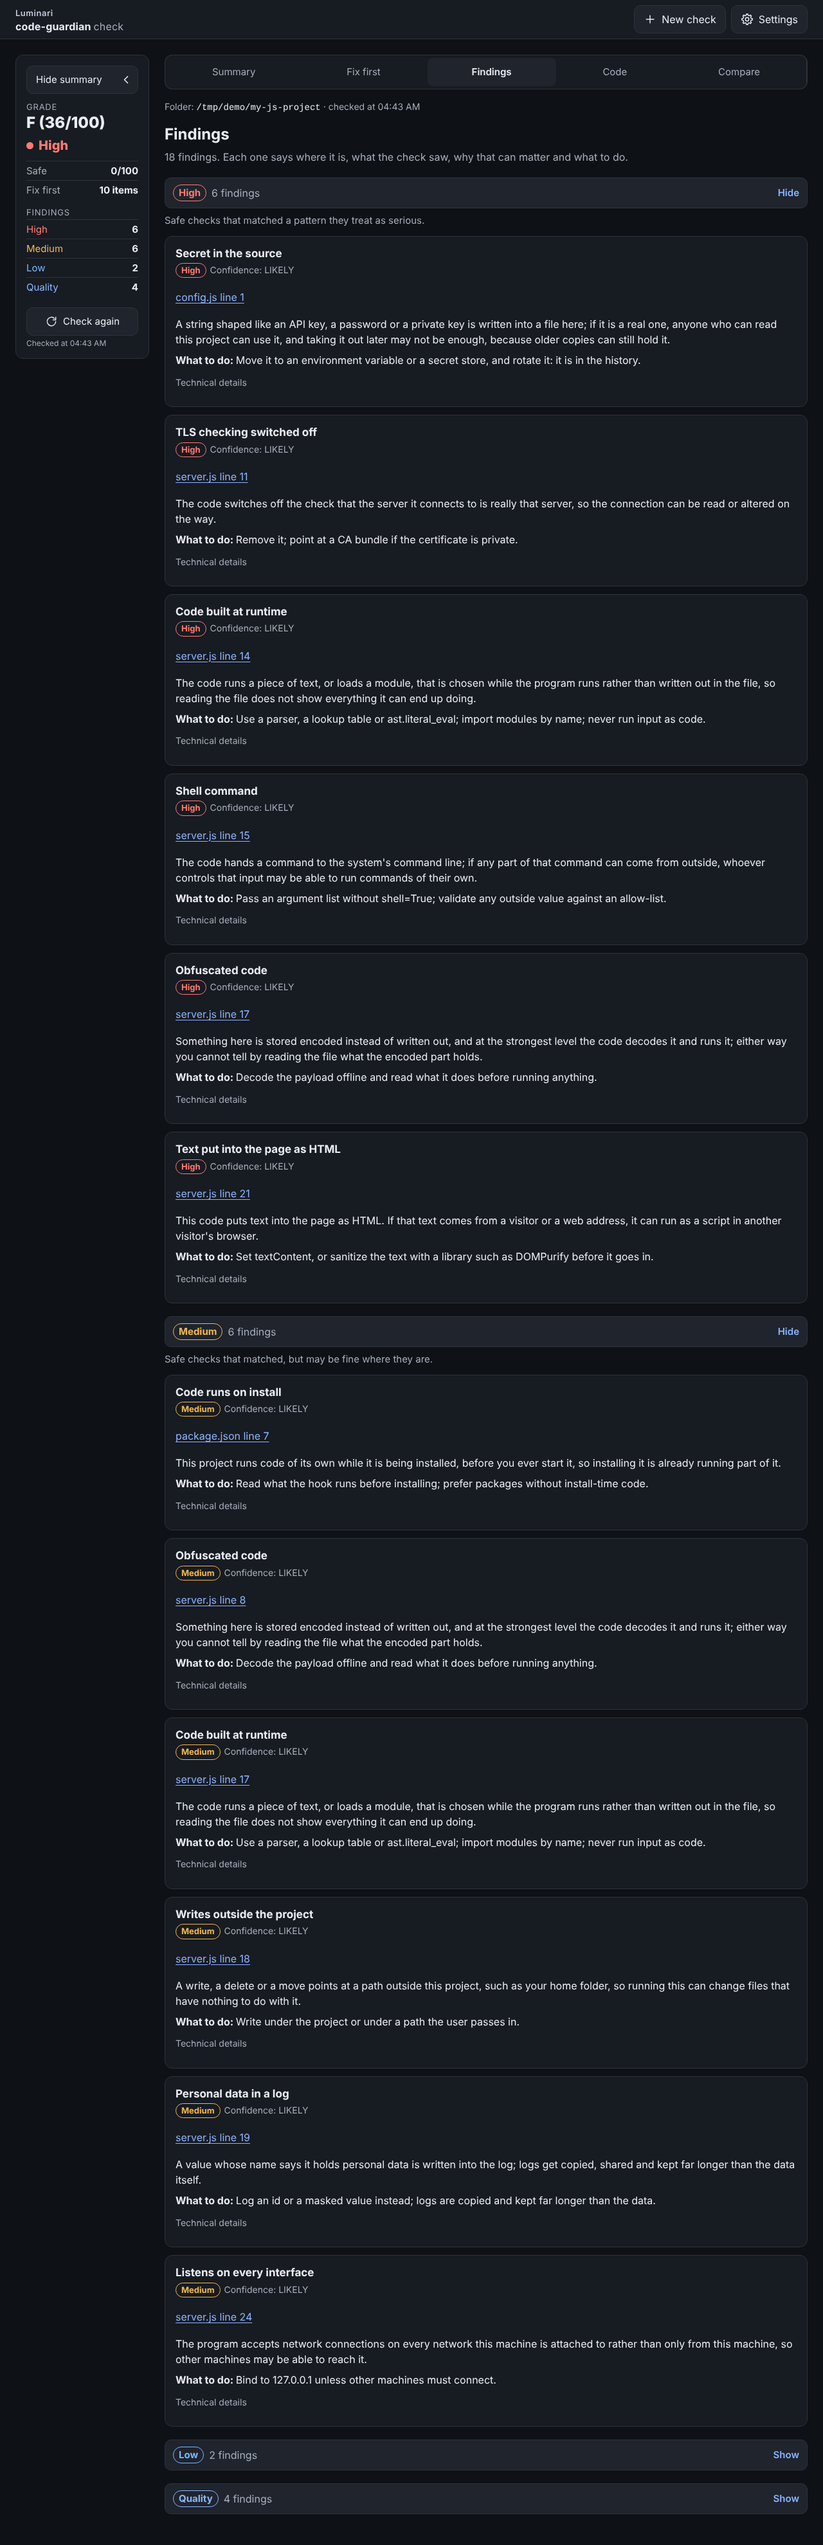
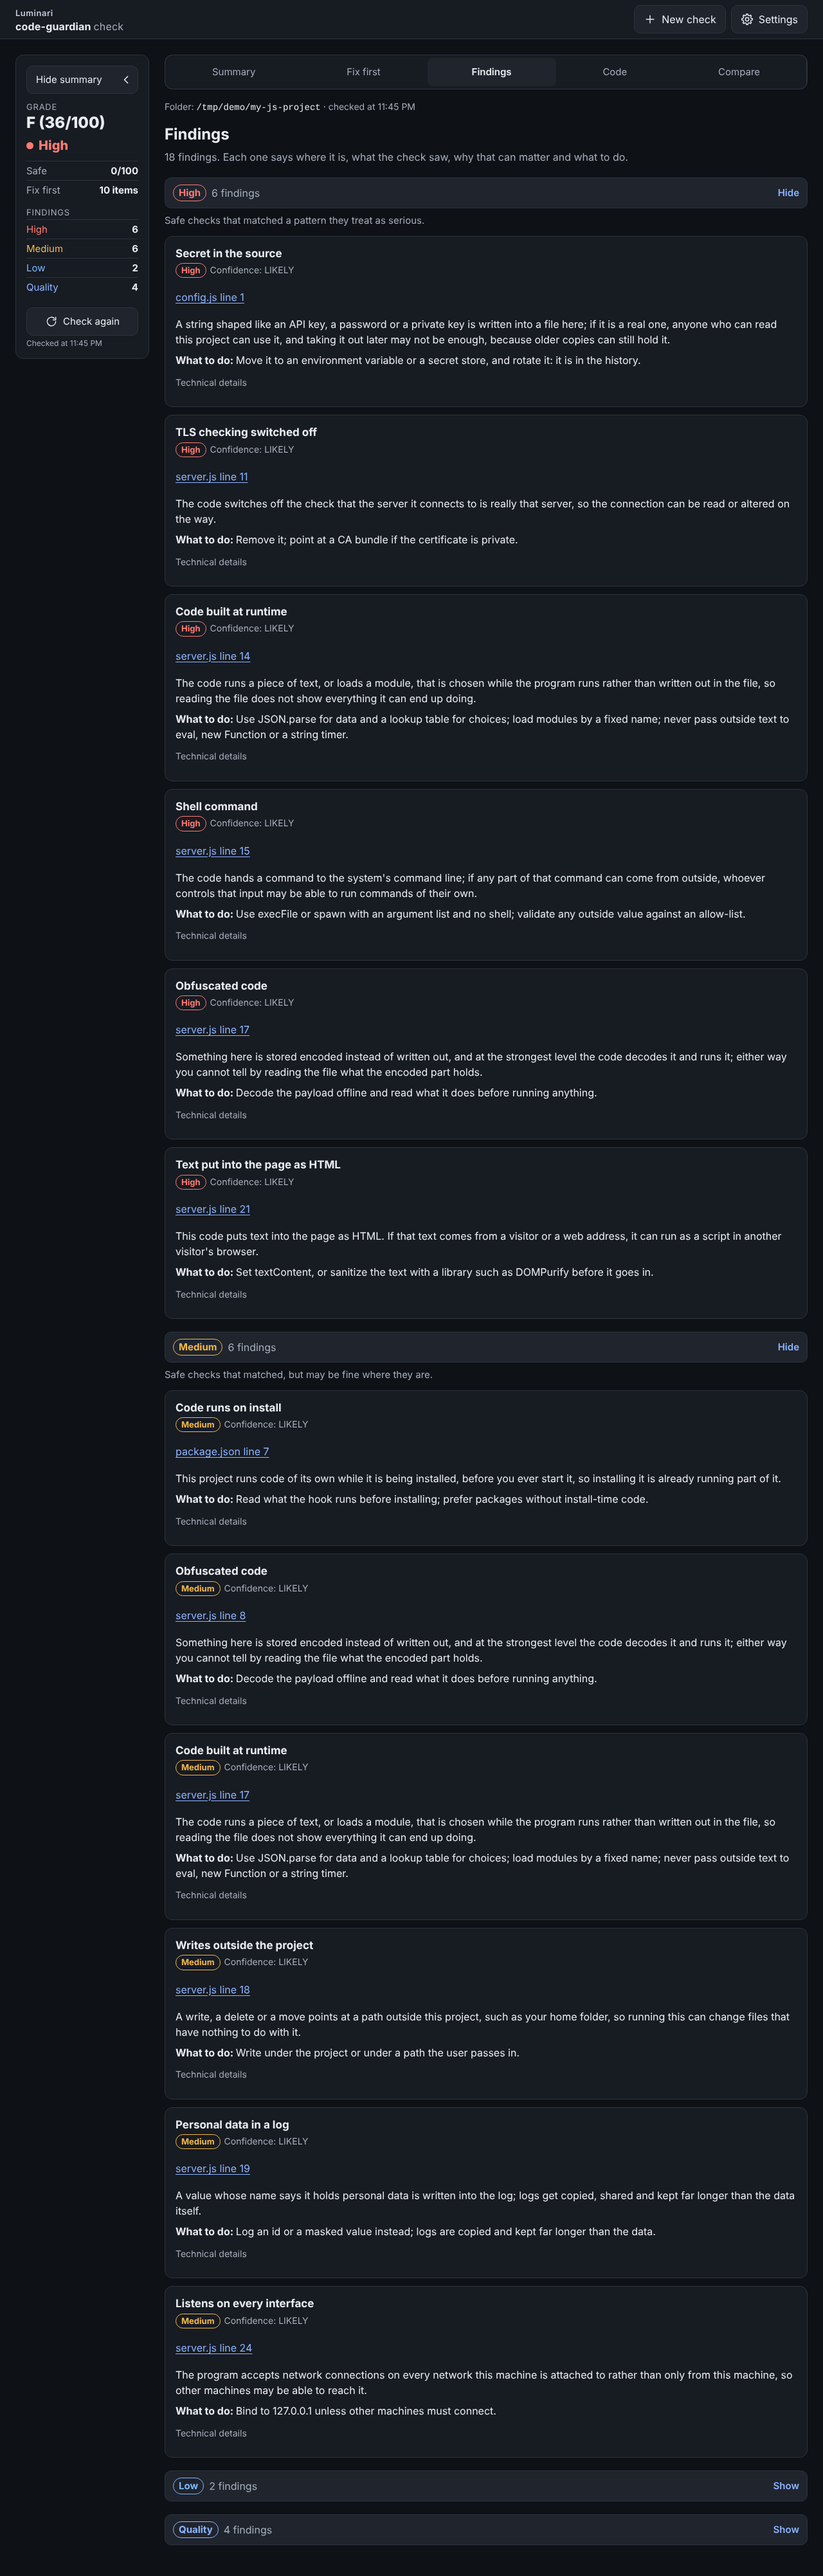
P81 S5b: plain lists under What was checked, and fix advice in the file's language
What was checked: the JavaScript / TypeScript and generated entries gain looked_at and
not_looked_at lists; the page shows them as two bullet lists, the depth chip reads
line by line, and a line under the title says the scores come from what is listed.
Advice: catalogue.FIX_JS, js_only and fix_for; finding_card and verify.plan use them.
The four js_risky screenshots are made again.

Claude-Session: https://claude.ai/code/session_01RfdP2ss3SeXPqJYzHjjLsa

diff --git a/code_guardian/ui/app.js b/code_guardian/ui/app.js
@@ -976,8 +976,15 @@
       if (c.files) head.appendChild(el("span", "chip depth-chip", depthWord(c.depth)));
       li.appendChild(head);
       // The sentence starts with the label, which the head line already shows.
-      var prefix = c.label + ": ";
-      li.appendChild(el("span", "checked-text", c.text.indexOf(prefix) === 0 ? c.text.slice(prefix.length) : c.text));
+      if (c.looked_at && c.looked_at.length) {
+        li.appendChild(el("span", "checked-sub", "Looked at"));
+        li.appendChild(checkedList(c.looked_at));
+        li.appendChild(el("span", "checked-sub", "Not looked at"));
+        li.appendChild(checkedList(c.not_looked_at || []));
+      } else {
+        var prefix = c.label + ": ";
+        li.appendChild(el("span", "checked-text", c.text.indexOf(prefix) === 0 ? c.text.slice(prefix.length) : c.text));
+      }
       ul.appendChild(li);
     });
   }
@@ -1016,10 +1023,19 @@
     $("rail-quality").textContent = String(counts.Quality);
   }
 
+  // A bullet list under "Looked at" / "Not looked at": the wording comes from the server in lower case.
+  function checkedList(items) {
+    var ul = el("ul", "checked-list");
+    items.forEach(function (text) {
+      ul.appendChild(el("li", null, text.charAt(0).toUpperCase() + text.slice(1)));
+    });
+    return ul;
+  }
+
   // The chip beside each "What was checked" label: how deep the scan went into that kind of file.
   function depthWord(depth) {
     if (depth === "full") return "in depth";
-    if (depth === "tokens") return "token level";
+    if (depth === "tokens") return "line by line";
     if (depth === "secrets+manifests") return "keys and install settings only";
     if (depth === "secrets only") return "keys only";
     if (depth === "not read") return "not read";

diff --git a/code_guardian/ui/index.html b/code_guardian/ui/index.html
@@ -179,6 +179,7 @@
   <p class="test-values" id="test-values" hidden><span id="test-values-text"></span> <button type="button" class="link" id="test-values-show">Show them</button></p>
   <ul class="sentences card" id="sentences"></ul>
   <h2 class="section-title">What was checked</h2>
+  <p class="hint">The Safe and Works scores above come only from what is listed here as looked at.</p>
   <ul class="checked card" id="checked"></ul>
   <details class="legend card">
     <summary>What the labels mean</summary>
@@ -189,7 +190,7 @@
       <dt>No known risks found</dt><dd>No Safe check reported anything in the files it could read. That is not the same as “all clear”: a static check only sees the patterns it knows, so this label is grey, not green.</dd>
       <dt>Could not check</dt><dd>The scan could not judge this folder, so there is no grade.</dd>
       <dt>in depth</dt><dd>Next to a kind of file under “What was checked”: every Safe and Works check ran on it, and the code was read the way a program reads it.</dd>
-      <dt>token level</dt><dd>Next to a kind of file under “What was checked”: the code was read piece by piece, so it can see what is called, loaded and sent, but not how values move between functions. The line says what was not checked.</dd>
+      <dt>line by line</dt><dd>Next to a kind of file under “What was checked”: each line was read on its own, so it sees what the code does there, but not how information travels from one part of the code to another. The two lists say what was and was not looked at.</dd>
       <dt>partial check</dt><dd>Some of the folder was not fully checked; the first line on this screen says which part.</dd>
     </dl>
   </details>

diff --git a/code_guardian/ui/app.css b/code_guardian/ui/app.css
@@ -465,6 +465,9 @@ legend { padding: 0; margin-bottom: 0.5rem; font-weight: 700; }
 .checked .checked-head { display: flex; flex-wrap: wrap; align-items: center; gap: 0.5rem; margin-bottom: 0.25rem; }
 .checked .checked-label { font-weight: 700; }
 .checked .checked-text { display: block; }
+.checked .checked-sub { display: block; font-weight: 600; margin-top: 0.5rem; }
+.checked .checked-list { margin: 0.25rem 0 0; padding-left: 1.25rem; }
+.checked .checked-list li { list-style: disc; border-top: 0; padding: 0.125rem 0; }
 .chip.depth-chip { color: var(--muted); font-weight: 400; }
 
 .section-title { margin-top: 1.5rem; }

diff --git a/code_guardian/plain.py b/code_guardian/plain.py
@@ -13,7 +13,7 @@ Public contract:
     LABELS, COULD_NOT_CHECK, VERDICT_PHRASES, LANGUAGES, WHY
     harm(report) -> {"level", "partial", "why", "counts": {"FAIL", "WARN", "INFO"}}
     score_sentence(dimension, report) -> str        # dimension: "safe" | "works" | "complete" | "overall"
-    checked_lines(report) -> [{"label", "files", "depth", "text"}]
+    checked_lines(report) -> [{"label", "files", "depth", "text"}]   # JavaScript entries also "looked_at", "not_looked_at"
     finding_card(finding, report=None) -> {"where", "what", "why", "how", "level", "confidence", "code",
                                            "fingerprint"}
     fix_first(report, top=10) -> [{"rank", "title", "level", "count", "gain", "grade_after", "first_location",
@@ -402,15 +402,30 @@ OTHER_TEXT = ("read for key shapes, and where the file is a manifest for install
               "was not analysed")
 # Measured, not quoted: a skipped file is never opened. walk.py puts a file in files.skipped when it is binary, a
 # symlink, over the size limit or unreadable, and report.scan() secret-scans only inv["other"], never inv["skipped"].
-# JavaScript / TypeScript (P81 C6): read at token level, so the line says what that reaches and what it does not.
-# "tokens" is the depth the page shows as "token level". The generated line says what ran on minified or generated
+# JavaScript / TypeScript (P81 C6, S5b): read line by line, so two plain lists say what that reaches and what it does not.
+# "tokens" is the depth the page shows as "line by line". The generated line says what ran on minified or generated
 # files (report.JS_GENERATED_CHECKS: key shapes, obfuscation, exec.dynamic) and nothing more.
 JS_LABEL = "JavaScript / TypeScript"
-JS_TEXT = ("analysed at token level: what the code calls, what it imports and loads, where it sends data, how it "
-           "starts, and the text itself; not checked: how values move between functions, types, unused code")
+JS_LOOKED_AT = [
+    "what the code tells the computer to do, such as running a command, deleting a file or putting text on a web page",
+    "which other code and packages it pulls in",
+    "where it sends information, such as websites, servers and logs",
+    "how it starts: what runs by itself when it is installed, and whether the file it starts from is there",
+    "passwords, keys and hidden or scrambled text written into the files",
+]
+JS_NOT_LOOKED_AT = [
+    "how information travels from one part of the code to another, such as from a form a visitor fills in to a line "
+    "several steps later",
+    "whether each piece of data is the kind the code expects, such as a number where a number belongs",
+    "code that is written but never used",
+]
+JS_TEXT = "read line by line. Looked at: %s. Not looked at: %s" % ("; ".join(JS_LOOKED_AT), "; ".join(JS_NOT_LOOKED_AT))
 JS_GENERATED_LABEL = "JavaScript (minified or generated)"
-JS_GENERATED_TEXT = ("read for key shapes and for code that runs text or decodes hidden text; nothing else was "
-                     "checked")
+JS_GENERATED_LOOKED_AT = ["passwords and keys written into the files",
+                          "code that runs text as code, or unscrambles hidden text"]
+JS_GENERATED_NOT_LOOKED_AT = ["everything else"]
+JS_GENERATED_TEXT = "read only for two things. Looked at: %s. Not looked at: %s" % (
+    "; ".join(JS_GENERATED_LOOKED_AT), "; ".join(JS_GENERATED_NOT_LOOKED_AT))
 SKIPPED_TEXT = "not read at all, because they are binary, a symlink, too large or unreadable; the notes name each"
 # An unparsed file is read and secret-scanned (report.scan() scans the text before building the parse tree) and
 # only then fails to parse, so it is "secrets only", not "not read".
@@ -441,11 +456,13 @@ def checked_lines(rep):
                     "text": "Python: %s \u2014 %s." % (_plural(python, "file"), _python_text(rep, leads, python))})
     if js_files:
         out.append({"label": JS_LABEL, "files": js_files, "depth": "tokens",
-                    "text": "%s: %s \u2014 %s." % (JS_LABEL, _plural(js_files, "file"), JS_TEXT)})
+                    "text": "%s: %s \u2014 %s." % (JS_LABEL, _plural(js_files, "file"), JS_TEXT),
+                    "looked_at": list(JS_LOOKED_AT), "not_looked_at": list(JS_NOT_LOOKED_AT)})
     if js_generated:
         out.append({"label": JS_GENERATED_LABEL, "files": js_generated, "depth": "tokens",
                     "text": "%s: %s \u2014 %s." % (JS_GENERATED_LABEL, _plural(js_generated, "file"),
-                                                   JS_GENERATED_TEXT)})
+                                                   JS_GENERATED_TEXT),
+                    "looked_at": list(JS_GENERATED_LOOKED_AT), "not_looked_at": list(JS_GENERATED_NOT_LOOKED_AT)})
     for ext, count in sorted((cov.get("other_source") or {}).items()):
         label = LANGUAGES.get(ext, ext)
         out.append({"label": label, "files": int(count), "depth": "secrets+manifests",
@@ -488,7 +505,7 @@ def finding_card(finding, rep=None):
         "where": finding.get("node"),
         "what": entry["title"] if entry else code,
         "why": WHY.get(code) or finding.get("summary") or "",
-        "how": finding.get("fix") or (entry or {}).get("fix"),
+        "how": finding.get("fix") or catalogue.fix_for(code, [finding.get("node")], catalogue.js_only(rep)),
         "level": finding.get("level"),
         "confidence": finding.get("confidence"),  # a labelled field, never a word inside a sentence
         "code": code,

diff --git a/code_guardian/catalogue.py b/code_guardian/catalogue.py
@@ -4,8 +4,12 @@ SARIF rules and the Markdown output read it; tests/test_readme_sync.py checks th
 
 Public contract:
     CATALOGUE = {code: {"title", "means", "fix", "false_positives"}}
+    FIX_JS = {code: text}                   # the advice for a finding in a JavaScript / TypeScript file
+    js_only(rep) -> bool                    # JavaScript / TypeScript analysed and no Python file
+    fix_for(code, locations, js_only_repo=False) -> str | None
 """
 
+import re
 import sys
 
 from .finding import summarize
@@ -242,6 +246,57 @@ CATALOGUE = {
 }
 
 
+# The codes whose CATALOGUE fix is Python-only advice. Every other code reads the same in either language.
+FIX_JS = {
+    "exec.dynamic": "Use JSON.parse for data and a lookup table for choices; load modules by a fixed name; never pass "
+                    "outside text to eval, new Function or a string timer.",
+    "exec.shell": "Use execFile or spawn with an argument list and no shell; validate any outside value against an "
+                  "allow-list.",
+    "deser.unsafe": "Parse data with JSON.parse and never pass it to eval; avoid packages that rebuild functions from "
+                    "data, such as node-serialize.",
+    "works.entry_missing": "Point the field in package.json at a file that exists, or run the build that makes it.",
+    "works.import_unresolved": "Add the package to dependencies in package.json, or fix the name if it is a typo.",
+    "works.syntax": "Fix the syntax error so the file can load; an unclosed string, comment or template is the usual "
+                    "cause.",
+    "works.tests_missing": "Add a test folder (test/ or tests/) with at least one test per entry point, and a test "
+                           "script in package.json.",
+}
+
+_JS_EXT = (".js", ".mjs", ".cjs", ".jsx", ".ts", ".tsx")
+_JS_FILES = {"package.json", "tsconfig.json", "jsconfig.json"}
+
+
+def js_only(rep):
+    """True when JavaScript / TypeScript was analysed and the scan saw no Python file."""
+    cov = (rep or {}).get("coverage") or {}
+    js = ((cov.get("languages") or {}).get("javascript") or {}).get("files") or 0
+    return bool(js) and not int(cov.get("python") or 0)
+
+
+def _is_js(location, js_only_repo):
+    path = re.sub(r":\d+$", "", str(location or ""))
+    if path in (".", ""):
+        return bool(js_only_repo)
+    return path.endswith(_JS_EXT) or path.replace("\\", "/").rsplit("/", 1)[-1] in _JS_FILES
+
+
+def fix_for(code, locations, js_only_repo=False):
+    """The fix for a finding, in the language of the file it is in. A code with no FIX_JS row always gets its
+    catalogue fix; so does one with no location. None for a code the catalogue does not know."""
+    entry = CATALOGUE.get(code)
+    if entry is None:
+        return None
+    py, js = entry["fix"], FIX_JS.get(code)
+    if js is None:
+        return py
+    flags = [_is_js(loc, js_only_repo) for loc in (locations or [])]
+    if flags and all(flags):
+        return js
+    if any(flags):
+        return "Python: %s JavaScript / TypeScript: %s" % (py, js)
+    return py
+
+
 def main(argv=None):
     argv = sys.argv[1:] if argv is None else argv
     if "--selftest" in argv:
@@ -251,6 +306,12 @@ def main(argv=None):
             ("covers_every_scored_code", codes <= set(CATALOGUE)),
             ("four_fields", all(set(e) == {"title", "means", "fix", "false_positives"} for e in CATALOGUE.values())),
             ("short_titles", all(len(e["title"]) <= 40 for e in CATALOGUE.values())),
+            ("fix_js_rows_are_catalogue_codes", set(FIX_JS) <= set(CATALOGUE)),
+            ("fix_for_picks_the_language", fix_for("exec.shell", ["a.js:1"]) == FIX_JS["exec.shell"]
+             and fix_for("exec.shell", ["a.py:1"]) == CATALOGUE["exec.shell"]["fix"]
+             and fix_for("exec.shell", ["a.py:1", "b.ts:2"]).startswith("Python: ")
+             and fix_for("works.tests_missing", ["."], True) == FIX_JS["works.tests_missing"]
+             and fix_for("no.such.code", ["a.js:1"]) is None),
         ]
         return summarize("catalogue", checks)
     sys.stderr.write("usage: python -m code_guardian.catalogue --selftest\n")

diff --git a/tests/test_plain.py b/tests/test_plain.py
@@ -627,3 +627,14 @@ def test_the_p88_sentences_make_no_promise():
                      [{"glob": "old/*", "why": "app/main.py imports it"}])[0],
                  plain.named_line({"glob": "old/*", "named_by": ["a.py"]})]
     assert not [s for s in sentences if plain.VERDICT_PHRASES.search(s)]
+
+
+def test_finding_card_picks_the_advice_for_the_file_language():
+    from code_guardian import catalogue
+    js = {"code": "exec.shell", "node": "src/run.js:4", "level": "WARN"}
+    py = {"code": "exec.shell", "node": "run.py:4", "level": "WARN"}
+    own = {"code": "exec.shell", "node": "src/run.js:4", "level": "WARN", "fix": "its own words"}
+    assert plain.finding_card(js, {})["how"] == catalogue.FIX_JS["exec.shell"]
+    assert plain.finding_card(py, {})["how"] == catalogue.CATALOGUE["exec.shell"]["fix"]
+    assert plain.finding_card(own, {})["how"] == "its own words"
+    assert plain.finding_card({"code": "zz.nope", "node": "a.js:1"}, {})["how"] is None

diff --git a/code_guardian/verify.py b/code_guardian/verify.py
@@ -160,7 +160,9 @@ def plan(rep, top=10):
                           "overall_after": after["overall"], "grade_after": after["grade"],
                           "deduction": row["deduction"], "count": row["count"],
                           "locations": row.get("locations") or [row["first"]], "more": row.get("more", 0),
-                          "fix": entry.get("fix", ""), "false_positives": entry.get("false_positives", "")})
+                          "fix": catalogue.fix_for(row["code"], row.get("locations") or [row["first"]],
+                                                   catalogue.js_only(rep)) or "",
+                          "false_positives": entry.get("false_positives", "")})
     items.sort(key=lambda i: (-i["gain"], i["count"], -i["deduction"], score.DIMENSIONS.index(i["dimension"]),
                               i["code"], i["level"]))
     items = items[:max(0, int(top))]

diff --git a/tools/ui_screenshots.py b/tools/ui_screenshots.py
@@ -35,7 +35,7 @@ under the field. No folder window is opened for it.
 
 result_js_{dark,light}_390x844.png and findings_js_{dark,light}_1280x800.png (P81 S5) are tests/fixtures/js_risky, with
 its key-shaped value built by tests/make_risky_js.py, in the dark palette and then the light one: the Summary on a phone
-(the "What was checked" list with its token level chip) and the Findings at full width. `--only js` writes just these
+(the "What was checked" list with its line by line chip) and the Findings at full width. `--only js` writes just these
 four. The older result_390x844 and result_520x900 shots are of a JavaScript-only project from before JavaScript was
 analysed; they say "partial check" and are regenerated by a run without `--only`.
 """

diff --git a/CHANGELOG.md b/CHANGELOG.md
@@ -12,6 +12,8 @@ JavaScript and TypeScript are now analysed, not only secret-scanned. Before, an 
 - **`schema_version` 3.** Adds `files.javascript`, `files.generated` and `coverage.languages` (`python`: files and depth `full`; `javascript`: files, generated, depth `tokens`, `checks`, `generated_checks`, `not_checked`); every earlier key keeps its meaning. `analysed` is `python`, `python+javascript` or `javascript`. The text report's coverage line reads `coverage: 40 Python analysed; 112 JavaScript/TypeScript analysed (token level); 9 .go secret-scan only`; the Markdown head and the SARIF run properties carry the same coverage. Exit codes, `gate_status`, `--fail-on`, baselines and fingerprints are unchanged.
 - **Golden test (P81 C5).** `tests/test_golden.py` re-scans the eight Python-only fixtures on every change and compares them with the reports recorded before this work (`tests/golden/`), leaving out only `version`, `schema_version`, `weights` and `path`. `risky_repo` holds a `.js` file and is compared through `tests/golden/risky_repo.delta.json`: one `net.egress` INFO at `web/setup.js:1`, the file moved out of `other`, the two new outcome rows and `analysed: python+javascript`; its scores, status and hygiene are asserted unchanged.
 - **CI (P81 C10).** The JavaScript-only repo job now expects `COMPLETE`, exit code 1, `exec.dynamic FAIL src/index.js:2`, Works scored and `coverage.languages.javascript.depth == "tokens"`; the wheel job also scans the JavaScript risky fixture from the installed wheel.
+- **Plainer "What was checked" (P81 S5b).** The page lists in plain words what was and was not looked at in JavaScript / TypeScript, and the depth label reads "line by line".
+- **Advice in the file's language (P81 S5b).** A finding in a JavaScript / TypeScript file gets JavaScript advice (`catalogue.FIX_JS`, `catalogue.fix_for`), on the finding card, the Fix first screen and the MCP fix plan.
 - **Docs.** ADR [0011](docs/adr/0011-javascript-typescript-at-token-level.md); the README's "What it analyses", "Scan status", "JSON shape", Safe and Works checks, "Check catalogue" and "Limitations".
 
 ### Upgrading to 0.5.0
